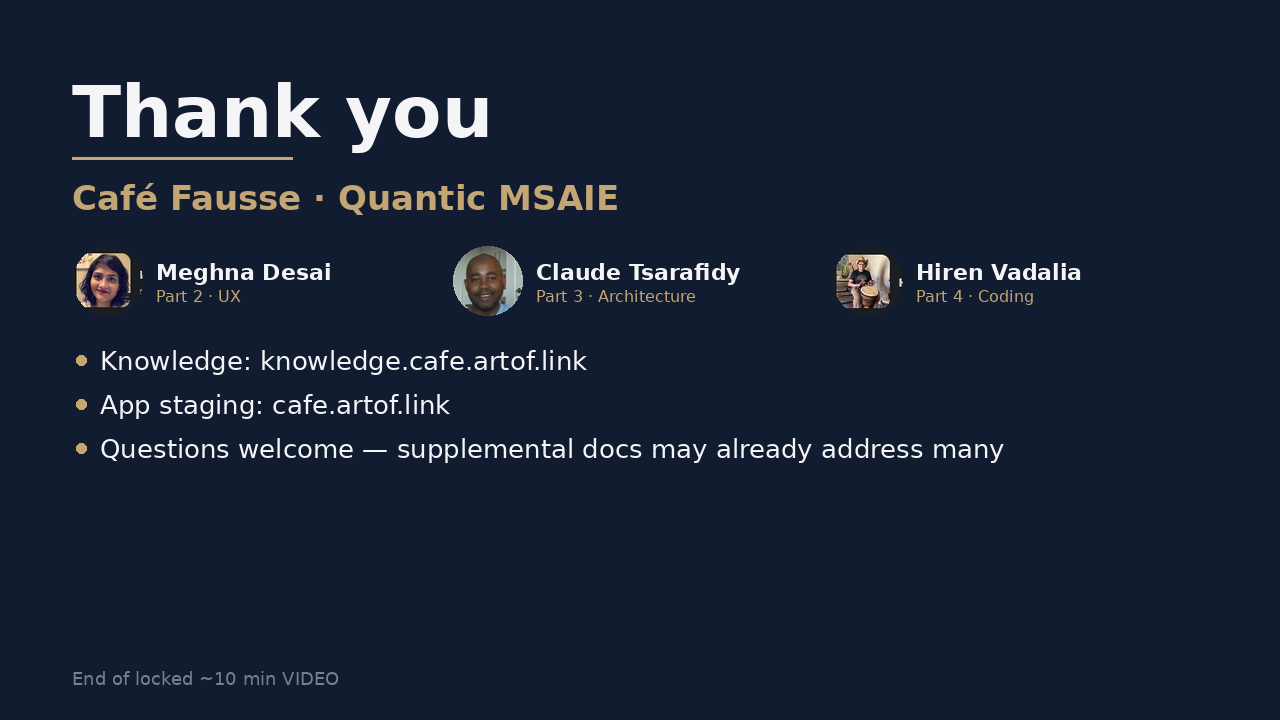
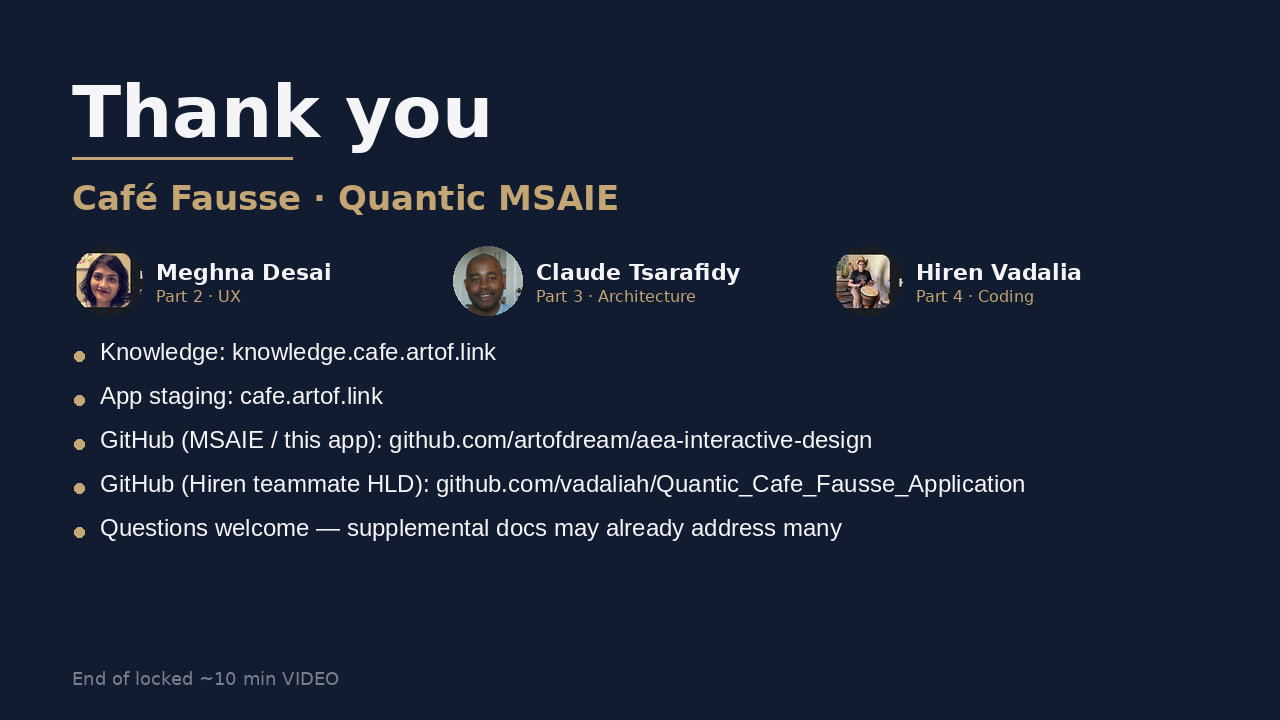
Knowledge: Part 5 end card — add both GitHub repos
Keep the #179 cast row and scrub. Add MSAIE app repo and Hiren teammate HLD repo on the Part 5 close card. Closes #181.

Changed region(s): [[0.0625, 0.4583, 0.8125, 0.7639]]

diff --git a/knowledge/build.py b/knowledge/build.py
@@ -1746,7 +1746,7 @@ def assert_ux_wiring() -> None:
         fail("hld-local.svg must keep coding & iteration")
     if "not the shared demo URL" not in local_hld:
         fail("hld-local.svg must keep not the shared demo URL")
-    # Ratchet #179: Part 5 end card — no #57, no PROTOTYPE, longer questions line.
+    # Ratchet #179 / #181: Part 5 end card — both GitHubs, no #57, no PROTOTYPE.
     end_svg_name = "card-p5-end.svg"
     end_png_name = "card-p5-end.png"
     end_svg = ROOT / "assets" / end_svg_name
@@ -1776,6 +1776,8 @@ def assert_ux_wiring() -> None:
         "Part 4 · Coding",
         "Knowledge: knowledge.cafe.artof.link",
         "App staging: cafe.artof.link",
+        "GitHub (MSAIE / this app): github.com/artofdream/aea-interactive-design",
+        "GitHub (Hiren teammate HLD): github.com/vadaliah/Quantic_Cafe_Fausse_Application",
         "Questions welcome — supplemental docs may already address many",
         "End of locked ~10 min VIDEO",
     ):
@@ -1787,6 +1789,8 @@ def assert_ux_wiring() -> None:
         fail(f"{end_svg_name} must not keep a PROTOTYPE badge or banner")
     if "@" in end_svg_text:
         fail(f"{end_svg_name} must not show an email")
+    if "GitHub (Hiren" in end_svg_text and "GitHub (Hiren teammate HLD)" not in end_svg_text:
+        fail(f"{end_svg_name} must label Hiren's repo teammate HLD, not MSAIE")
     part5_present_md = (ROOT / "part5-present.md").read_text(encoding="utf-8")
     if "assets/card-p5-end.png" not in part5_present_md:
         fail("part5-present.md must keep the card-p5-end.png pointer")

diff --git a/research/daily-briefs/2026-09-07.md b/research/daily-briefs/2026-09-07.md
@@ -1,5 +1,7 @@
 # 2026-09-07
 
+Europe/Berlin. Finding #181: Knowledge — Part 5 end card [card-p5-end.png](../../knowledge/assets/card-p5-end.png) (1280×720) plus [card-p5-end.svg](../../knowledge/assets/card-p5-end.svg) keeps the #179 cast + scrub and adds both GitHubs: **GitHub (MSAIE / this app)** `github.com/artofdream/aea-interactive-design` · **GitHub (Hiren teammate HLD)** `github.com/vadaliah/Quantic_Cafe_Fausse_Application` (teammate HLD, not MSAIE). Keep Thank you / Café Fausse · Quantic MSAIE / Knowledge / App staging `cafe.artof.link` (no #57) / Questions welcome — supplemental docs may already address many / End of locked ~10 min VIDEO. No PROTOTYPE · no email. [part5-present](../../knowledge/part5-present.md) still embeds the PNG. `build.py` ratchet. Do **not** edit other Part 5 cards or App code. One PR **Closes #181**. Knowledge + brief only. Author does not merge.
+
 Europe/Berlin. Finding #179: Knowledge — refresh Part 5 end card [card-p5-end.png](../../knowledge/assets/card-p5-end.png) (1280×720) plus [card-p5-end.svg](../../knowledge/assets/card-p5-end.svg). Drop `(#57)` from App staging (just `cafe.artof.link`). Drop PROTOTYPE badge / “not Quantic submit”. Add cast row: **Meghna Desai** (Part 2 · UX) · **Claude Tsarafidy** (Part 3 · Architecture, no Pro badge) · **Hiren Vadalia** (Part 4 · Coding). Questions line: **Questions welcome — supplemental docs may already address many**. Keep Thank you / Café Fausse · Quantic MSAIE / Knowledge URL / End of locked ~10 min VIDEO. No email. [part5-present](../../knowledge/part5-present.md) still embeds the PNG. `build.py` ratchet. Do **not** edit other Part 5 cards or App code. One PR **Closes #179**. Knowledge + brief only. Author does not merge.
 
 Europe/Berlin. Finding #177: Knowledge — scrub **cts-ai** from camera [hld-local.svg](../../knowledge/assets/hld-local.svg). This session HTTPS **GET 200** on `https://knowledge.cafe.artof.link/assets/hld-local.svg` still had cts-ai in desc, subtitle, and the local-stack box label. Replace with **Local (dev)** so the HLD matches the rationale SVG / #176 table. Keep Vite + React, Flask API, local PostgreSQL, fail-closed without DB, coding & iteration · not the shared demo URL. Do **not** edit other SVGs, App code, or a site-wide rename. `build.py` ratchet. One PR **Closes #177**. Knowledge + brief only. Author does not merge.
@@ -15,5 +17,5 @@ Europe/Berlin. Finding #173: Knowledge — camera-ready SVG comparing Local (dev
 
 ## Surfaces
 
-- Café Fausse Knowledge owns `knowledge.cafe.artof.link` via GitHub Pages. This session (2026-09-07 Europe/Berlin): HTTPS **GET 200** on `/` and `/assets/hld-local.svg` (live SVG still named cts-ai before this PR).
+- Café Fausse Knowledge owns `knowledge.cafe.artof.link` via GitHub Pages. This session (2026-09-07 Europe/Berlin): HTTPS **GET 200** on `/` and `/assets/card-p5-end.png` (live PNG still the #179 three-link card before this PR).
 - Café Fausse App owns `cafe.artof.link`. This session (2026-09-07 Europe/Berlin): HTTPS **GET 200** on `/`, `/api/health` `{"ok":true}`, `/operator`. MSAIE staging — not forever production.
